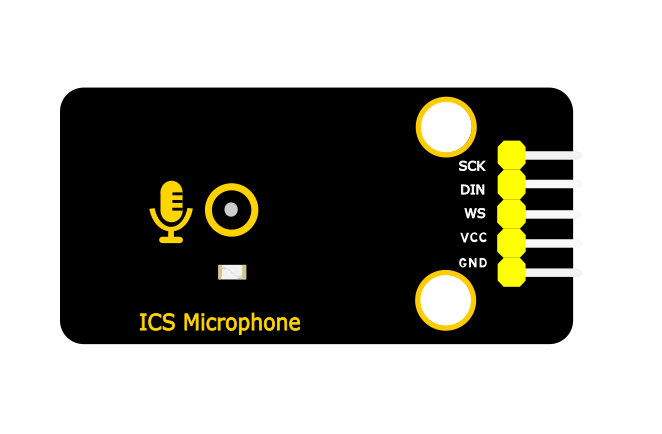
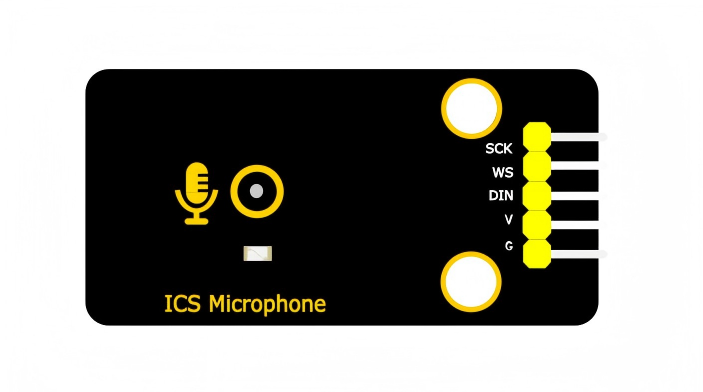
UPDATE V01

Changed region(s): [[0.0906, 0.1531, 0.8761, 0.8571], [0.2115, 0.398, 0.423, 0.5816], [0.3323, 0.6122, 0.3927, 0.6735]]

diff --git a/docs/KS6089 keyestudio DIY Electronic Brick ICS Microphone Module.md b/docs/KS6089 keyestudio DIY Electronic Brick ICS Microphone Module.md
@@ -4,13 +4,11 @@
 
 ## 1. Introduction
 
-This module mainly adopts an ICS-43432 digital microphone chip, which is a high-performance and low-noise MEMS microphone with a bottom microphone hole. It is equipped with an internal MEMS sensor, Σ-Δ ADC, anti-aliasing filter, power manager and interfaces conforming to the I2S standard, and it can directly output 24-bit digital audio signals.
-
-Besides, it is compatible with various MCU control boards, including Arduino series, ESP32, Raspberry PI Pico, etc. Meanwhile, two positioning holes are reserved on it with a diameter of 4.8mm, which is convenient for fixing it on other devices.
+This module mainly adopts an ICS-43432 digital microphone chip, which is a high-performance and low-noise MEMS microphone with a bottom microphone hole. It is equipped with an internal MEMS sensor, Σ-Δ ADC, anti-aliasing filter, power manager and interfaces conforming to the I2S standard, and it can directly output 24-bit digital audio signals. Besides, two positioning holes are reserved on it with a diameter of 4.8mm, which is convenient for fixing it on other devices.
 
 ## 2. Parameters
 
-- **Operating voltage** : 1.6V - 3.3V DC
+- **Operating voltage** : 3.3V - 5V DC
 - **Interface** : I2S digital interface
 - **Signal-to-noise ratio** : 65 dBA
 - **Sensitivity** : -26 dBFS
@@ -51,8 +49,8 @@ The I2S bus consists of three main signals:
 
 ## 4. Pin Description
 
-- **GND**: power ground
-- **VDD**: power positive (+3.3V)
+- **G**: power ground
+- **V**: power positive
 - **SCK**: bit clock input
 - **DIN**: data output
 - **WS**: Left and right channel clocks
@@ -70,8 +68,8 @@ The I2S bus consists of three main signals:
 
 | Microphone module | ESP32 development board |
 | ----------------- | ----------------------- |
-| VDD               | 3.3V                    |
-| GND               | GND                     |
+| V                 | 3.3V                    |
+| G                 | GND                     |
 | SCK               | GPIO14                  |
 | WS                | GPIO12                  |
 | DIN               | GPIO13                  |
